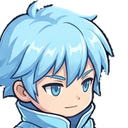
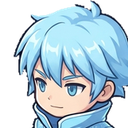
Fight of Heroes 1.14.1: 영웅 그림 방향 바로잡기(6명), 영구 비약 아이콘
Claude-Session: https://claude.ai/code/session_016g1TGBsBFPop2go7sckziN

diff --git a/fight-of-heroes/tools/import_art.py b/fight-of-heroes/tools/import_art.py
@@ -27,7 +27,7 @@ MAP_OBJECTS = ["base_fountain", "shop", "center_stage", "camp_ring", "boss_altar
                "tree_1", "tree_2", "bush", "rock_1", "rock_2", "crystal", "torch", "pillar", "barrel", "crate"]
 
 # 게임은 캐릭터가 오른쪽을 본다고 보고 왼쪽으로 갈 때 뒤집는다. 왼쪽을 보고 그려진 그림은 넣을 때 뒤집는다.
-FACING_LEFT = {"saint", "frost_mage", "gunslinger", "mechanic"}
+FACING_LEFT = {"reaper", "star_girl"}
 
 KINDS = {
     "heroes": ("assets/heroes", 384),

diff --git a/fight-of-heroes/docs/PHASE18_REPORT.md b/fight-of-heroes/docs/PHASE18_REPORT.md
@@ -48,3 +48,10 @@
 - 이어 하기 저장에 마신 비약도 들어갑니다.
 - 만드는 도구: `tools/gen_elixirs.py`. 아이콘 요청 프롬프트: `docs/ART_PROMPTS.md` 9번 (그림이 없는 동안은 색과 글자로 나옴).
 - 새 시험: 영구 비약(값이 오르고, 칸을 안 차지하고, 죽어도 남음), 목표 킬 무제한. 자동 시험 175개 모두 통과, 전체 흐름 시험 성공.
+
+## 영웅 그림 방향 다시 점검, 비약 아이콘 (1.14.1)
+
+- 영웅 16명 그림을 한 장에 크게 모아 하나씩 확인했습니다. 게임은 오른쪽을 보는 그림을 기준으로 왼쪽으로 갈 때 뒤집습니다.
+- 메카닉·빙결술사·성녀·총잡이는 원래 오른쪽을 보는 그림인데 왼쪽을 본다고 잘못 판단해 뒤집어 넣었고, 사신·마법소녀는 원래 왼쪽을 보는 그림인데 그대로 넣었습니다. 여섯 명의 그림과 얼굴을 바로잡았습니다.
+- 정리 도구의 왼쪽 그림 목록(`FACING_LEFT`)을 사신·마법소녀로 고쳤습니다 (다음에 같은 그림을 다시 넣어도 맞게 들어감).
+- 영구 비약 5종 아이콘을 넣었습니다.

diff --git a/fight-of-heroes/docs/ART_PROMPTS.md b/fight-of-heroes/docs/ART_PROMPTS.md
@@ -344,6 +344,8 @@ Square 1024x1024 PNG.
 
 ## 10. 진행 상황
 
+- 영구 비약 아이콘 5장(9번 항목)도 넣었습니다.
+
 - PHASE 17 스킬 아이콘 10장(8번 항목)도 넣었습니다.
 
 - 넣음: 영웅 10명과 용기사 변신, 몬스터 9종, 아이템 39개, 바닥 무늬 7개, 맵 물건·장식 전부, 스킬 아이콘 50개, 스킬 효과 그림 30장.
